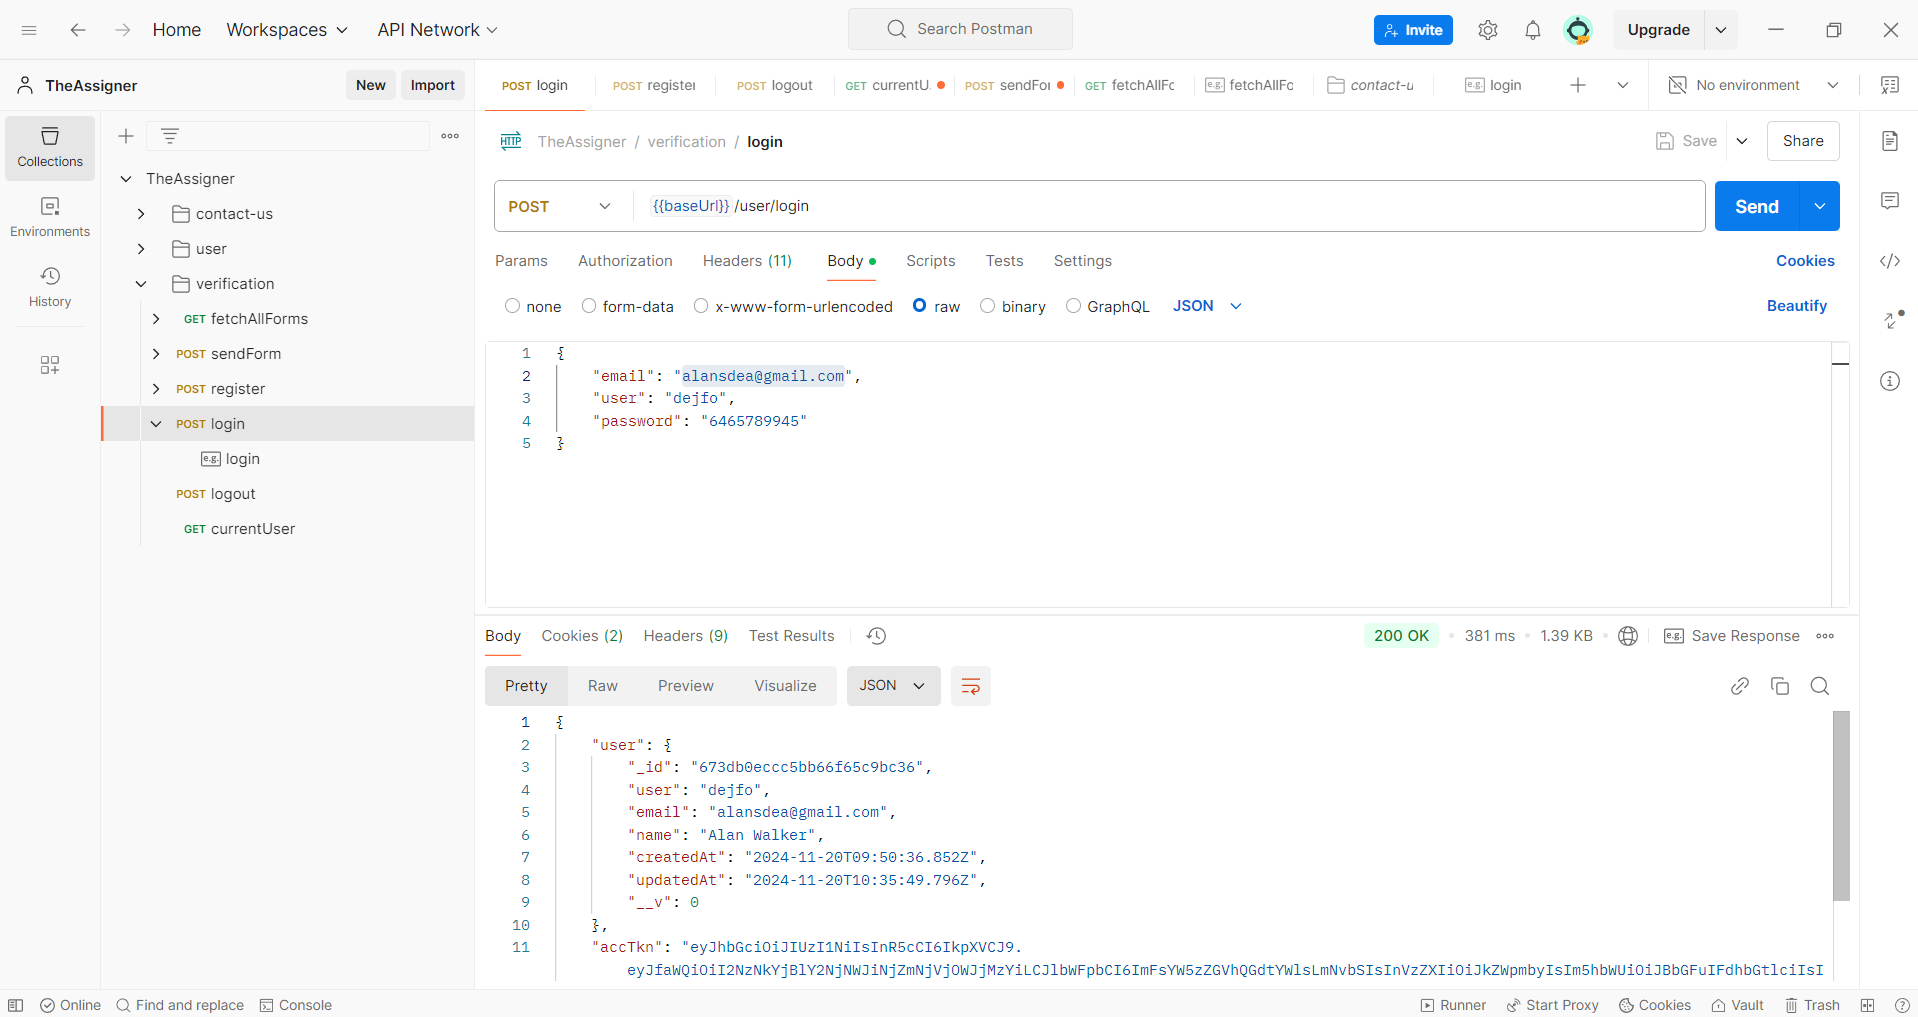
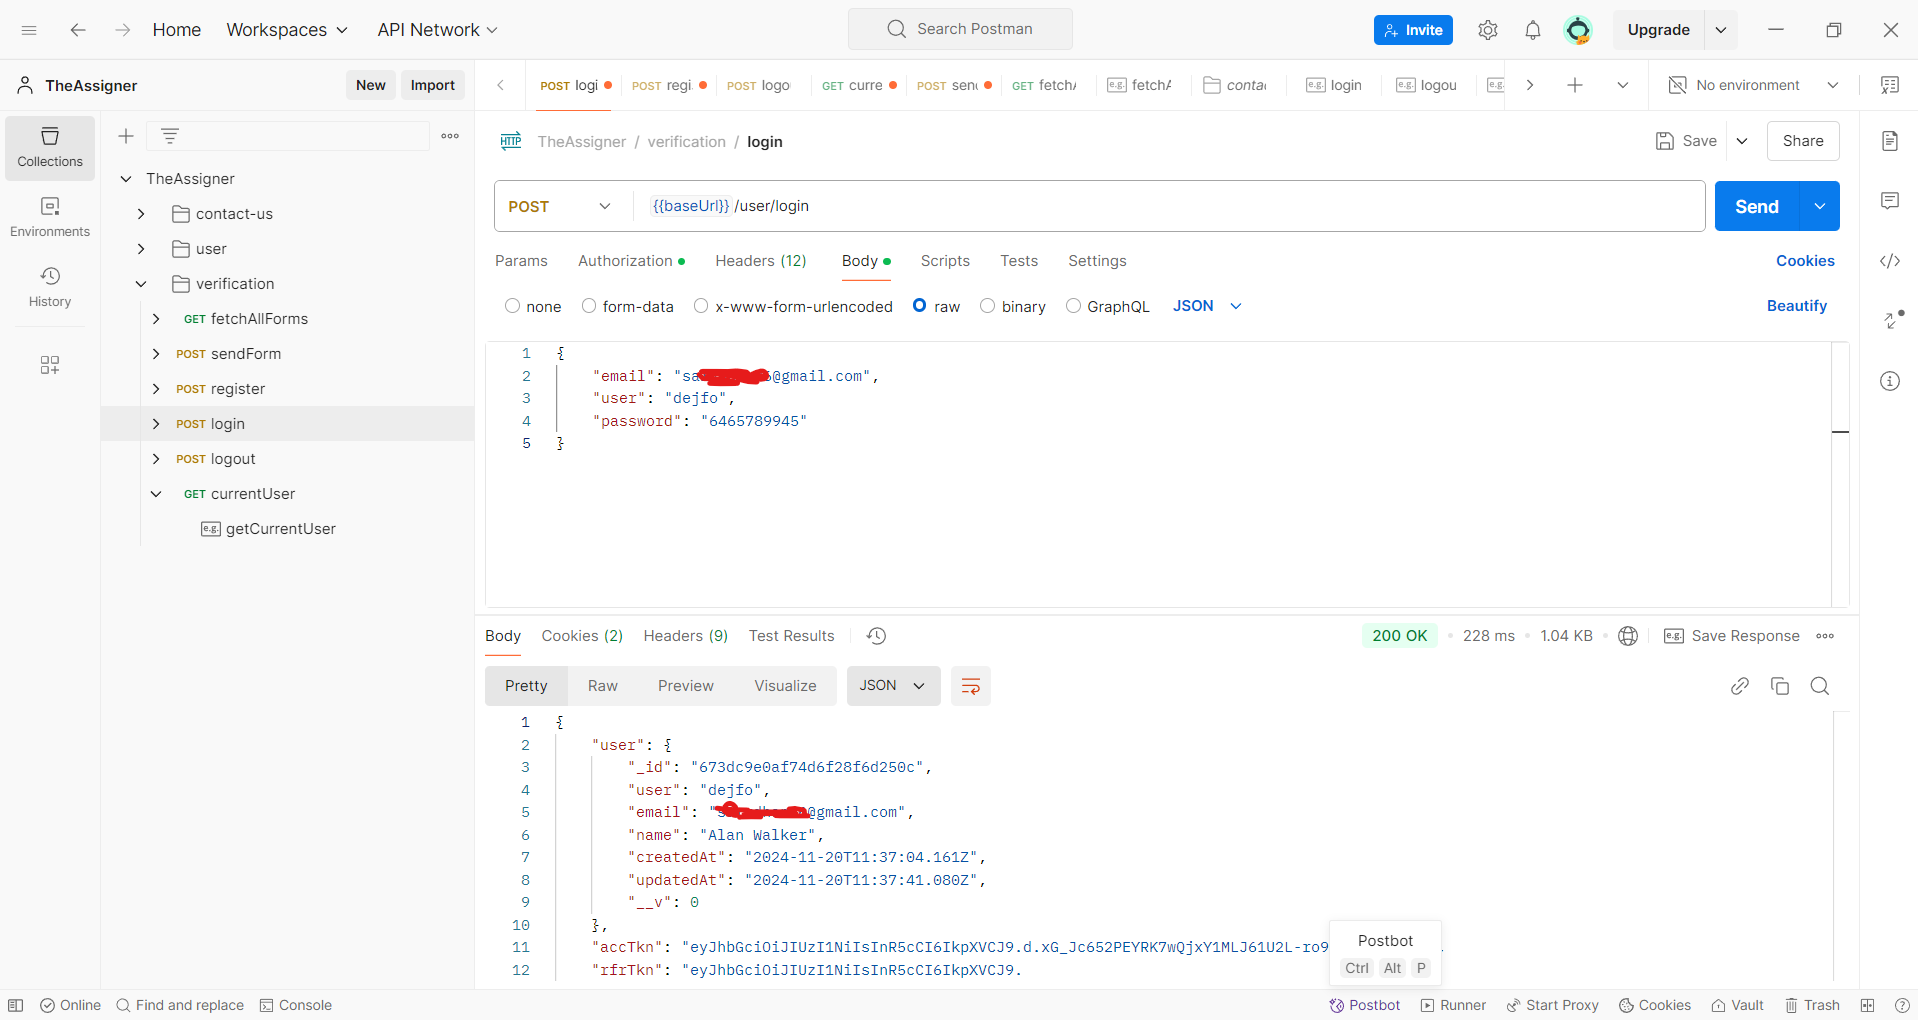
added verification through nodemailer and accToken

diff --git a/verification/controller/user.controller.js b/verification/controller/user.controller.js
@@ -3,6 +3,7 @@ import { Response } from "../Response.js";
 import { User } from "../model/user.model.js";
 import jwt from "jsonwebtoken";
 import mongoose from "mongoose";
+import { transporter } from "../nodemailer.js";
 
 const generateAccessnRefreshToken = async (userId) => {
   try {
@@ -29,11 +30,29 @@ const register = async (req, res) => {
   if (userExist) {
     new Error(409, "User already exist.");
   }
+
   const newUser = await User.create({
     name: name,
     email: email,
     user: user.toLowerCase(),
     password,
+  });
+
+  const accTkn = newUser.generateAccessToken();
+
+  const mailOptions = {
+    from: process.env.EMAIL,
+    to: email,
+    subject: "Verify your account.",
+    text: `Your token for verification is ${accTkn}`,
+  };
+
+  transporter.sendMail(mailOptions, (error, info) => {
+    if (error) {
+      console.log(error);
+    } else {
+      console.log("Email sent: " + info.response);
+    }
   });
 
   const userCreated = await User.findById(newUser._id).select(
@@ -52,40 +71,40 @@ const login = async (req, res) => {
   try {
     const { email, user, password } = req.body;
 
-    // Validate input
     if (!email && !user) {
       return res.status(400).json({ message: "Username or email is empty." });
     }
 
-    // Find user by email or username
     const currUser = await User.findOne({ $or: [{ email }, { user }] });
     if (!currUser) {
       return res.status(404).json({ message: "User does not exist" });
     }
 
-    // Validate password
+
     const isPasswordValid = await currUser.isPasswordCorrect(password);
     if (!isPasswordValid) {
       return res.status(400).json({ message: "Invalid password" });
     }
 
-    // Generate tokens
-    const { accTkn, rfrTkn } = await generateAccessnRefreshToken(currUser._id);
+    const token =
+    req.cookies?.accessToken ||
+    req.header("Authorization")?.replace("Bearer ", "");
+    const accTkn = token
+    const rfrTkn = await currUser.generateRefreshToken()
+    currUser.refreshToken = rfrTkn;
 
-    // Get user session data
+    await currUser.save({ validateBeforeSave: false });
+
     const userSession = await User.findById(currUser._id).select(
       "-password -refreshToken"
     );
 
-    // Cookie options
     const options = {
       httpOnly: true,
-      secure: true, // Set this to true for HTTPS
+      secure: true,
     };
 
-    // Set cookies and send response
-    console.log(rfrTkn);
-    console.log(accTkn);
+
     return res
       .cookie("refreshToken", rfrTkn, options)
       .cookie("accessToken", accTkn, options)

diff --git a/verification/nodemailer.js b/verification/nodemailer.js
@@ -1,28 +1,16 @@
 import nodemailer from "nodemailer";
-// Create a transporter object
+
 const transporter = nodemailer.createTransport({
-  service: "gmail",
+  host: "smtp.gmail.com",
+  port: 587,
+  secure: false,
   auth: {
-    user: "temperchecksarv@gmail.com", 
-    pass: "cewnhcuewcgo", 
+    user: process.env.EMAIL,
+    pass: process.env.EMPASS,
   },
 });
 
-// Define the email options
-const mailOptions = {
-  from: "temperchecksarv@gmail.com",
-  to: "recipient@example.com", 
-  subject: "Hello from Nodemailer", 
-  text: "This is a test email sent using Nodemailer!",
-};
 
-// Send the email
-// transporter.sendMail(mailOptions, (error, info) => {
-//   if (error) {
-//     console.log(error);
-//   } else {
-//     console.log("Email sent: " + info.response);
-//   }
-// });
 
-export {transporter, mailOptions}
+
+export {transporter}

diff --git a/verification/middleware/auth.middleware.js b/verification/middleware/auth.middleware.js
@@ -9,8 +9,6 @@ const verifyToken = async (req, _, next) => {
     req.header("Authorization")?.replace("Bearer ", "");
     
     if (!token) throw new Error(401, "Unauthorized to make request");
-    console.log(process.env.ACCESS_TOKEN_SECRET);
-    console.log(token);
 
     const fetchedToken = jwt.verify(token, process.env.ACCESS_TOKEN_SECRET);
 

diff --git a/README.md b/README.md
@@ -17,3 +17,6 @@ https://www.postman.com/sarmt/theassigner/overview
 ![Get @fetchAllForms](fetchAllForms.png)
 ## Send Form
 ![Post @sendForm](sendForm.png)
+
+# Email
+![email](email.png)
